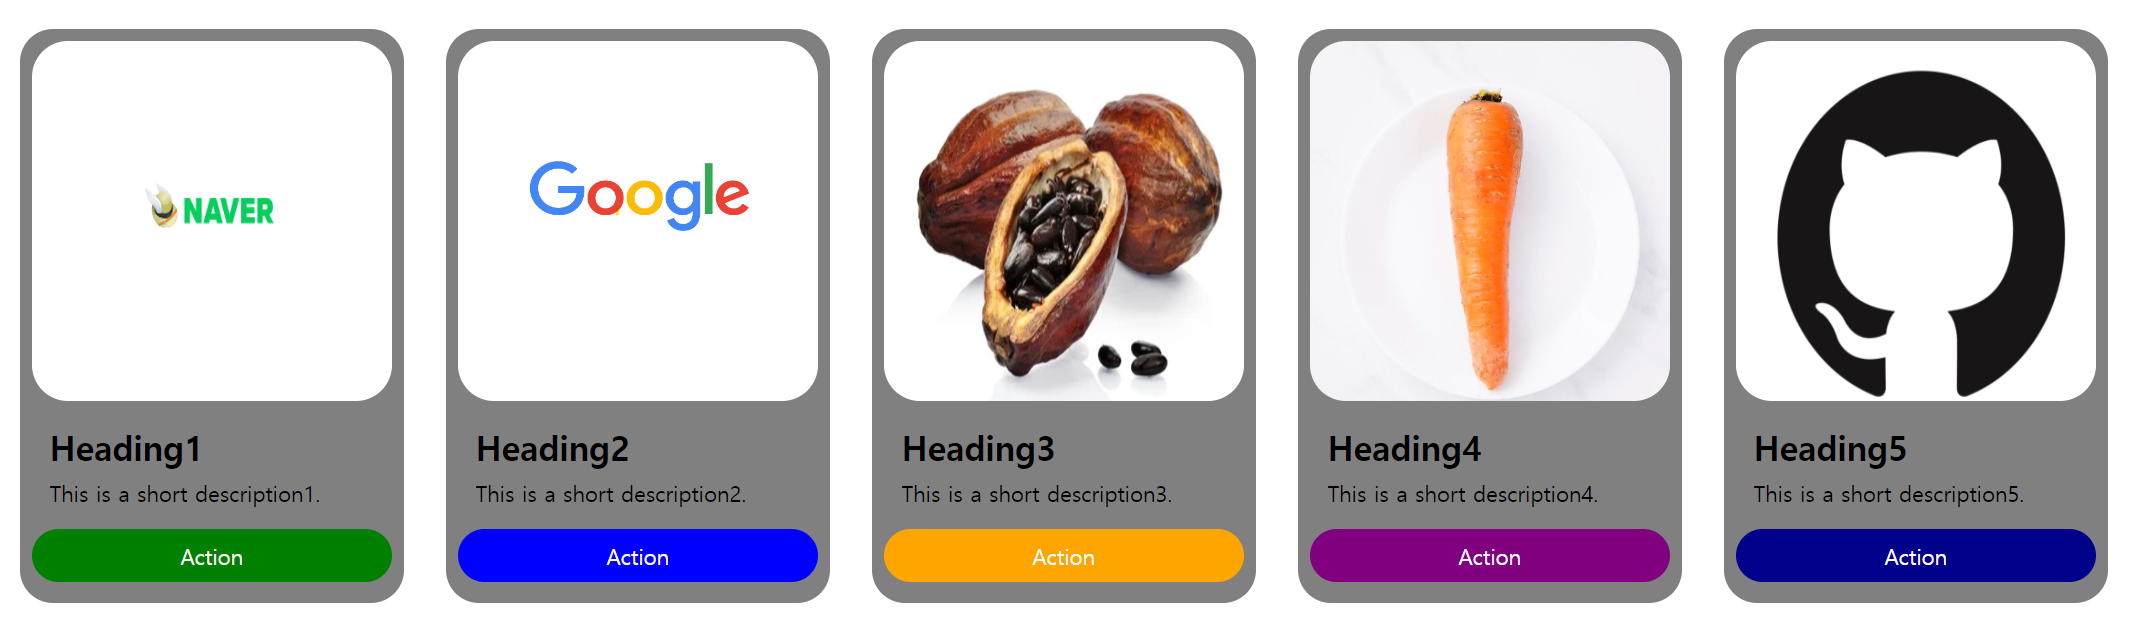
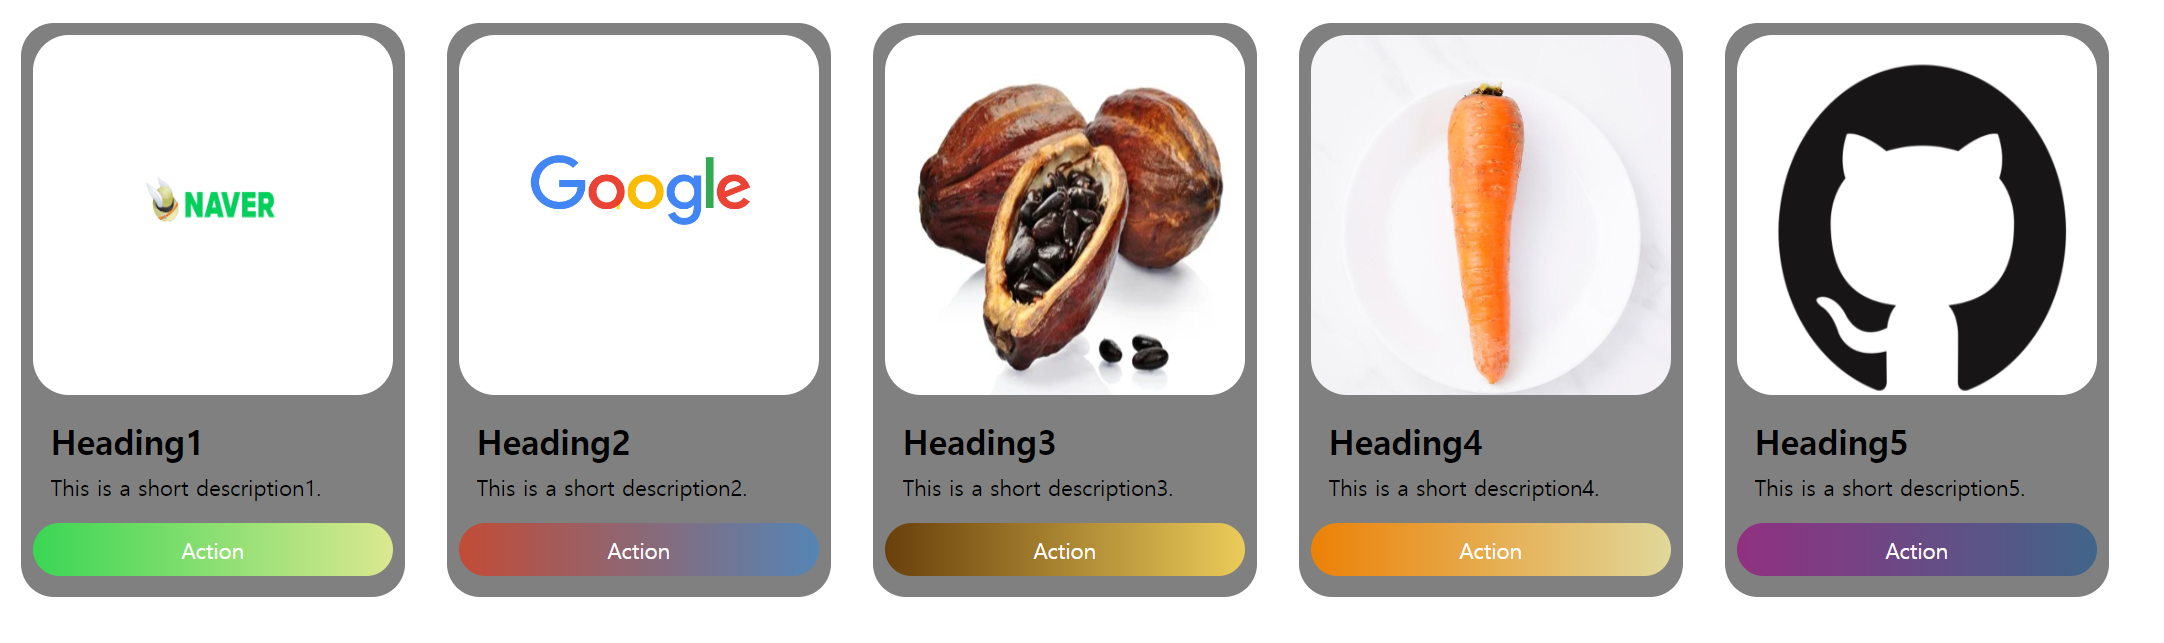
최최최종

diff --git a/src/main.jsx b/src/main.jsx
@@ -4,11 +4,11 @@ import MediaCard from "./components/MediaCard";
 const Main = () =>{
   return(
     <>
-    <MediaCard url="img/naver.png" title="Heading1" text="This is a short description1." buttonColor="green"/>
-    <MediaCard url="img/google.png" title="Heading2" text="This is a short description2." buttonColor="blue"/>
-    <MediaCard url="img/kakao.png" title="Heading3" text="This is a short description3." buttonColor="orange"/>
-    <MediaCard url="img/carrot.png" title="Heading4" text="This is a short description4." buttonColor="purple"/>
-    <MediaCard url="img/github.png" title="Heading5" text="This is a short description5." buttonColor="darkblue"/>
+    <MediaCard url="img/naver.png" title="Heading1" text="This is a short description1." buttonColor="linear-gradient(to right, #3ad654, #dbe890);"/>
+    <MediaCard url="img/google.png" title="Heading2" text="This is a short description2." buttonColor="linear-gradient(to right, #c24b36, #5585b5);"/>
+    <MediaCard url="img/kakao.png" title="Heading3" text="This is a short description3." buttonColor="linear-gradient(to right, #69400b, #ebcb59);"/>
+    <MediaCard url="img/carrot.png" title="Heading4" text="This is a short description4." buttonColor="linear-gradient(to right, #ec8106, #e0d89a);"/>
+    <MediaCard url="img/github.png" title="Heading5" text="This is a short description5." buttonColor="linear-gradient(to right, #913081, #416589);"/>
     </>
   );
 }

diff --git a/src/components/MediaCard.jsx b/src/components/MediaCard.jsx
@@ -37,7 +37,7 @@ const BoxButton = styled.p`
 text-align: center;
 margin-left: 10px;
 margin-right: 10px;
-background-color: ${(props) => (props.buttonColor ? props.buttonColor : "black")};
+background: ${(props) => (props.buttonColor ? props.buttonColor : "black")};
 border-radius: 30px;
 padding: 10px;
 font-size: 18px;
